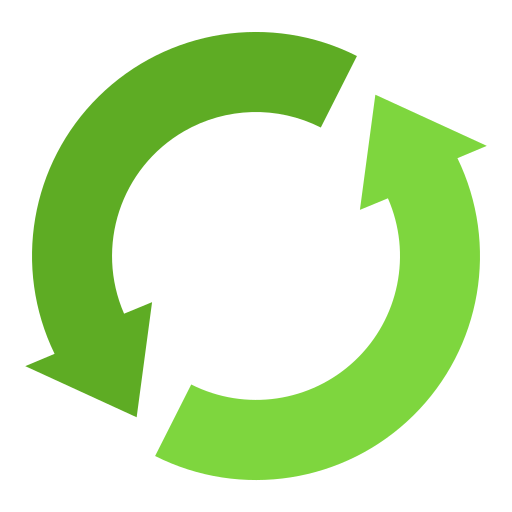
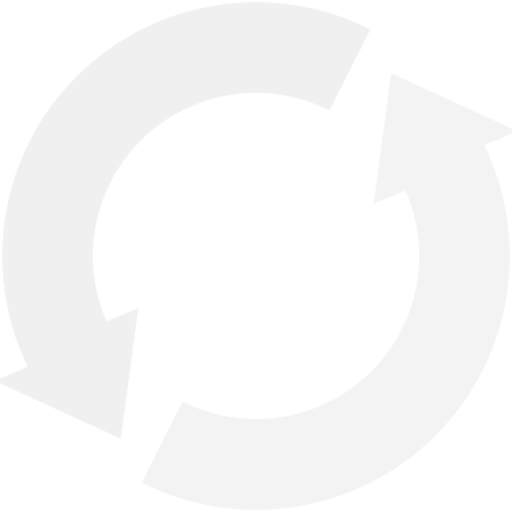
fix: clear the user inputs if the asset is created or the selected project changes

diff --git a/client/asset_creator/ui/ui.py b/client/asset_creator/ui/ui.py
@@ -205,6 +205,7 @@ class MainWindow(QtWidgets.QDialog):
         if not project_name:
             return
 
+        self._clear_user_inputs()
         self._clear_tasks()
 
         project_settings = ayon_api.get_project(project_name)
@@ -310,6 +311,7 @@ class MainWindow(QtWidgets.QDialog):
             self._show_success(
                 f"Successfully created asset '{asset_name}'"
             )
+            self._clear_user_inputs()
 
         # Notify parent that an asset was created (even if some tasks failed)
         self.asset_created.emit()
@@ -322,6 +324,18 @@ class MainWindow(QtWidgets.QDialog):
         """Display a success dialog with the given message."""
         QtWidgets.QMessageBox.information(self, "Success", message)
 
+    def _clear_user_inputs(self):
+        """Clear user-entered data"""
+        self.asset_name_line_edit.clear()
+        self.description_text_edit.clear()
+        self.type_combo_box.clearEditText()
+        self.image_drop_zone.clear()
+        for checkbox in self._task_checkboxes:
+            checkbox.setChecked(False)
+
+    def showEvent(self, event):
+        super().showEvent(event)
+        self._clear_user_inputs()
 
 def main():
     app = QtWidgets.QApplication(sys.argv)
